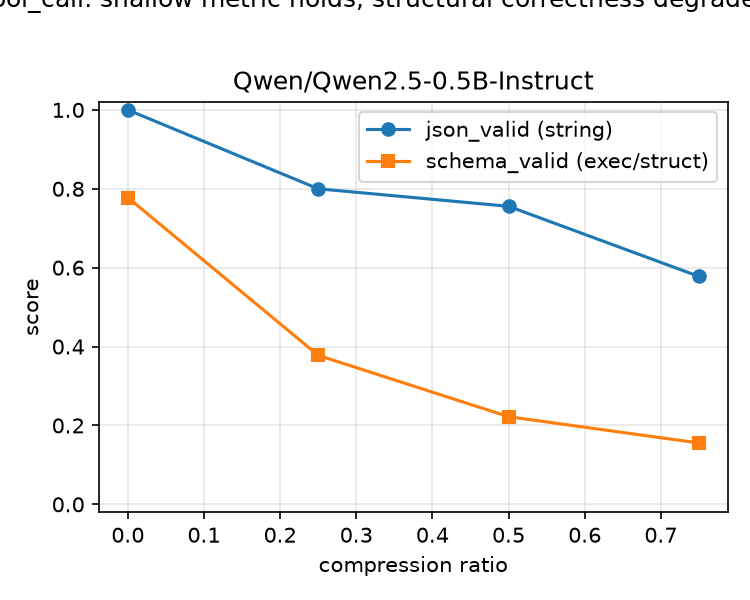
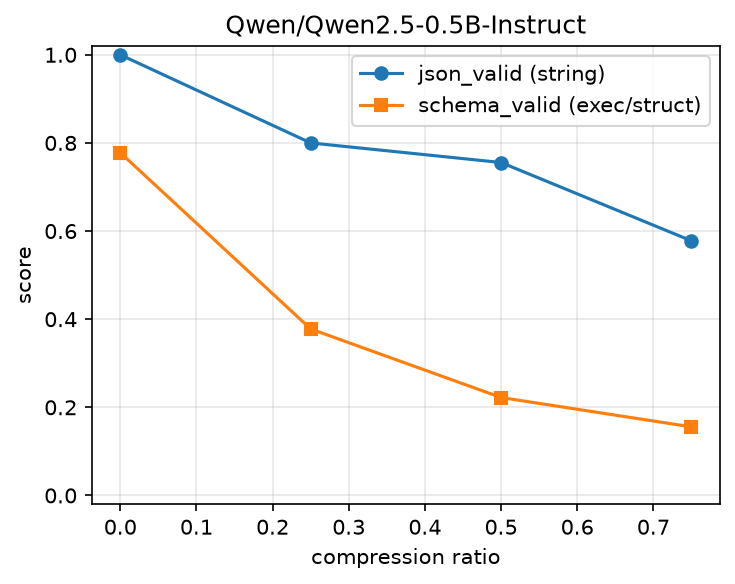
docs: compiled preprint PDF + figure cleanup

diff --git a/scripts/make_figures.py b/scripts/make_figures.py
@@ -42,10 +42,9 @@ def make_contrast_figure(df, task, standard_metric, exec_metric, out_path):
         ax.set_ylim(-0.02, 1.02)
         ax.grid(True, alpha=0.3)
         ax.legend()
-    fig.suptitle(f"{task}: shallow metric holds, structural correctness degrades", y=1.02)
     fig.tight_layout()
     os.makedirs(os.path.dirname(out_path) or ".", exist_ok=True)
-    fig.savefig(out_path, dpi=150)
+    fig.savefig(out_path, dpi=150, bbox_inches="tight")
     return fig
 
 